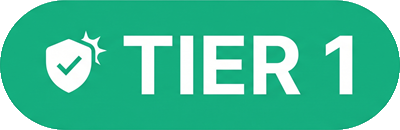
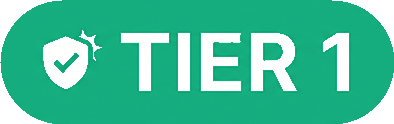
fix(badges): move selo Tier 1 para junto de Modulos e elimina halo residual na borda

diff --git a/apps/web/src/components/pipeline/proposal-economics-modal.tsx b/apps/web/src/components/pipeline/proposal-economics-modal.tsx
@@ -3760,19 +3760,19 @@ export const ProposalEconomicsModal = forwardRef<
                               <div className="flex h-5 w-5 sm:h-7 sm:w-7 shrink-0 items-center justify-center rounded-md bg-amber-500/10 text-amber-600 dark:text-amber-400">
                                 <Sun className="h-3.5 w-3.5" />
                               </div>
-                              <span className="text-[0.7rem] sm:text-xs font-bold uppercase tracking-wider text-[var(--color-muted-foreground)] truncate">
+                              <span className="text-[0.7rem] sm:text-xs font-bold uppercase tracking-wider text-[var(--color-muted-foreground)] shrink-0">
                                 Módulos
                               </span>
-                            </div>
-                            <div className="flex items-center gap-1.5 shrink-0">
                               {isModuleTier1(proposalKitResult.modules) ? (
                                 <img
                                   src="/badges/tier1.png"
                                   alt="Tier 1 Bloomberg"
                                   title="Módulo certificado Tier 1 (BloombergNEF)"
-                                  className="h-5 sm:h-6 w-auto object-contain shrink-0"
+                                  className="h-4.5 sm:h-5 w-auto object-contain shrink-0"
                                 />
                               ) : null}
+                            </div>
+                            <div className="flex items-center gap-1.5 shrink-0">
                               {extractPowerBadge(proposalKitResult.modules.product_name) ? (
                                 <span className="inline-flex items-center gap-1 rounded-md px-1.5 py-0.5 text-[0.65rem] sm:text-xs font-bold bg-amber-500/15 text-amber-700 dark:text-amber-300 border border-amber-500/30 shrink-0">
                                   <Zap className="h-3 w-3 shrink-0" />
